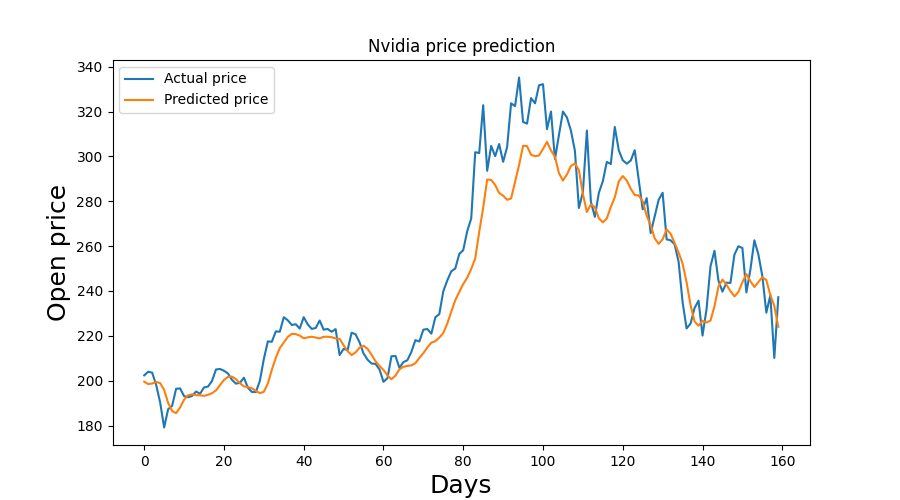
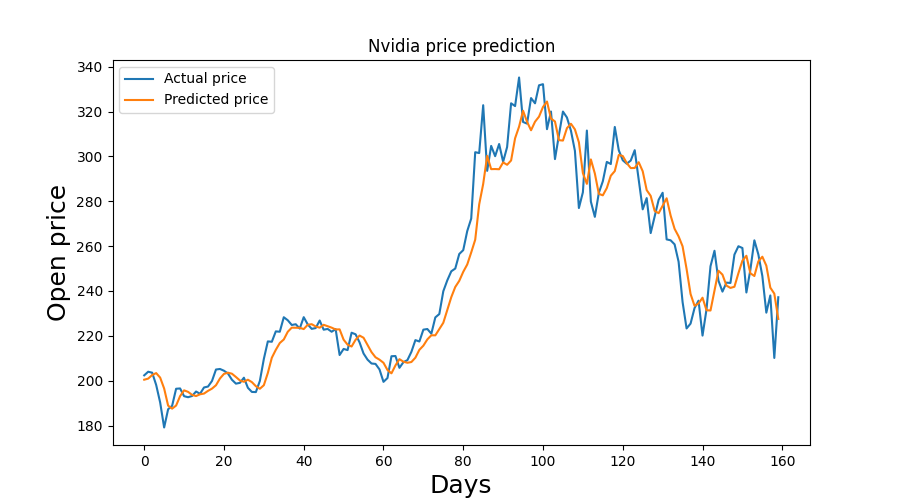
updated README

diff --git a/README.md b/README.md
@@ -1,8 +1,20 @@
 # Stock price prediction
 
-### Aim of the project and dataset
+## Introduction
 
-The aim of this project is to use deep learning to predict future prices of stocks. Nvidia and QQQ (US-based tech index) stock prices between January 2015 and February 2022 are used as an example.
+The aim of this project is to use deep learning to predict future prices of stocks.
+The repository is constantly evolving, as I try out various different approaches, and technologies.
+I am creating multiple models for different stocks, and indexes.
+Predictions will be made for individual shares, as well as utilizing multiple datasets to give more accurate price forecasts.
+
+### Technologies
+
+- Python 3.10
+- Tensorflow 2.8
+
+## Datasets
+
+Nvidia and QQQ (US-based tech index) stock prices between January 2015 and February 2022 are used as an example.
 
 The datasets are publicly available at MarketWatch in a downloadable .csv format in yearly chanks. 
 
@@ -10,7 +22,21 @@ The datasets are publicly available at MarketWatch in a downloadable .csv format
 
 ![QQQ prices](https://github.com/barsimark/stock-price-predictor/blob/master/images/QQQ-prices.png)
 
-### Plans for the future
+## Models
+
+### Basic model
+
+Currently, there is only a single model available, although I am constantly working on it to improve its performance.
+
+- Input: sequnce of stock price data
+- Hidden layers: multiple LSTM, and Dropout layers
+- Output: predicted stock price for the next day
+
+Performance on the test dataset:
+
+![Basic model performance](https://github.com/barsimark/stock-price-predictor/blob/master/images/Basic-model-prediction.png)
+
+## Plans for the future
 
 - Improve the basic model to get more accurate results
 - Add new model with Nvidia and QQQ as inputs, and Nvidia prediction as output
@@ -18,6 +44,6 @@ The datasets are publicly available at MarketWatch in a downloadable .csv format
 - Reduce or eliminate outliers with using something like moving average
 - Give predictions for the future and use it in real trading
 
-### Author
+## Author
 
 Mark Barsi
